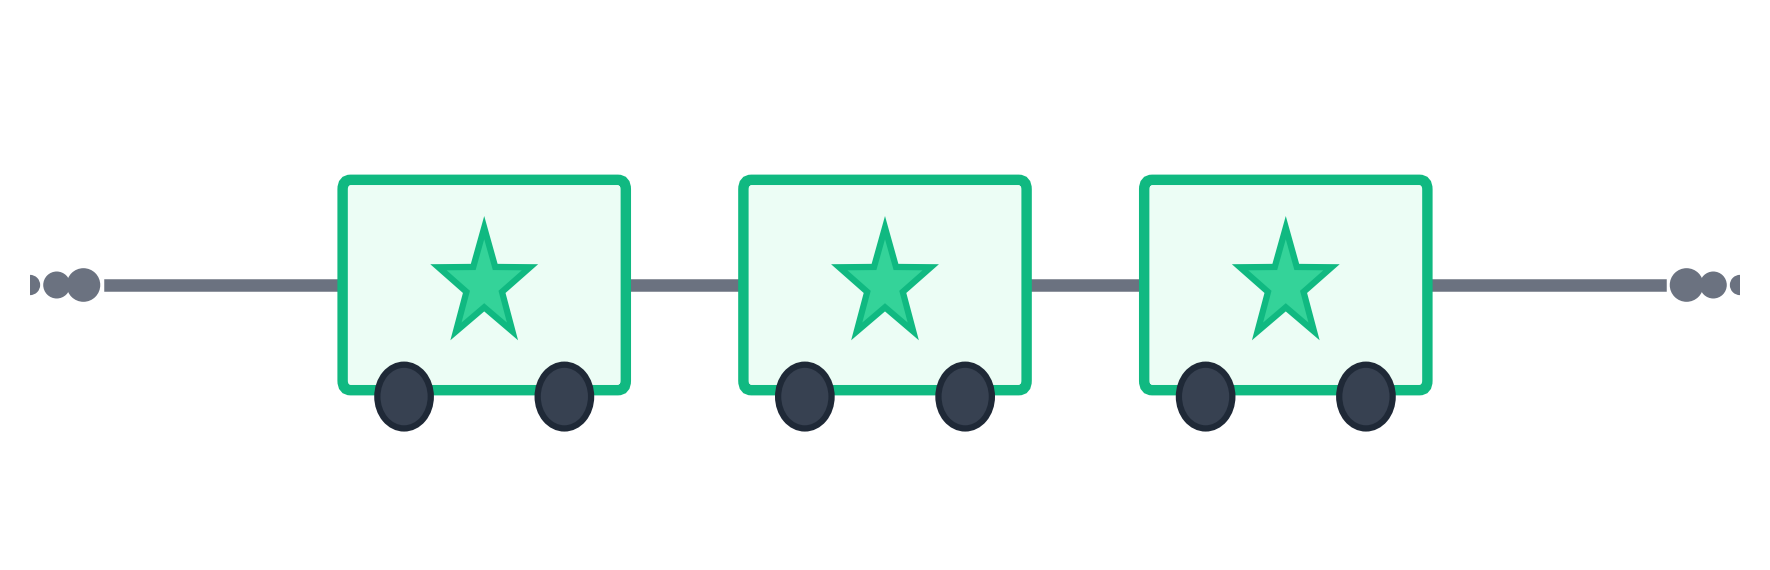
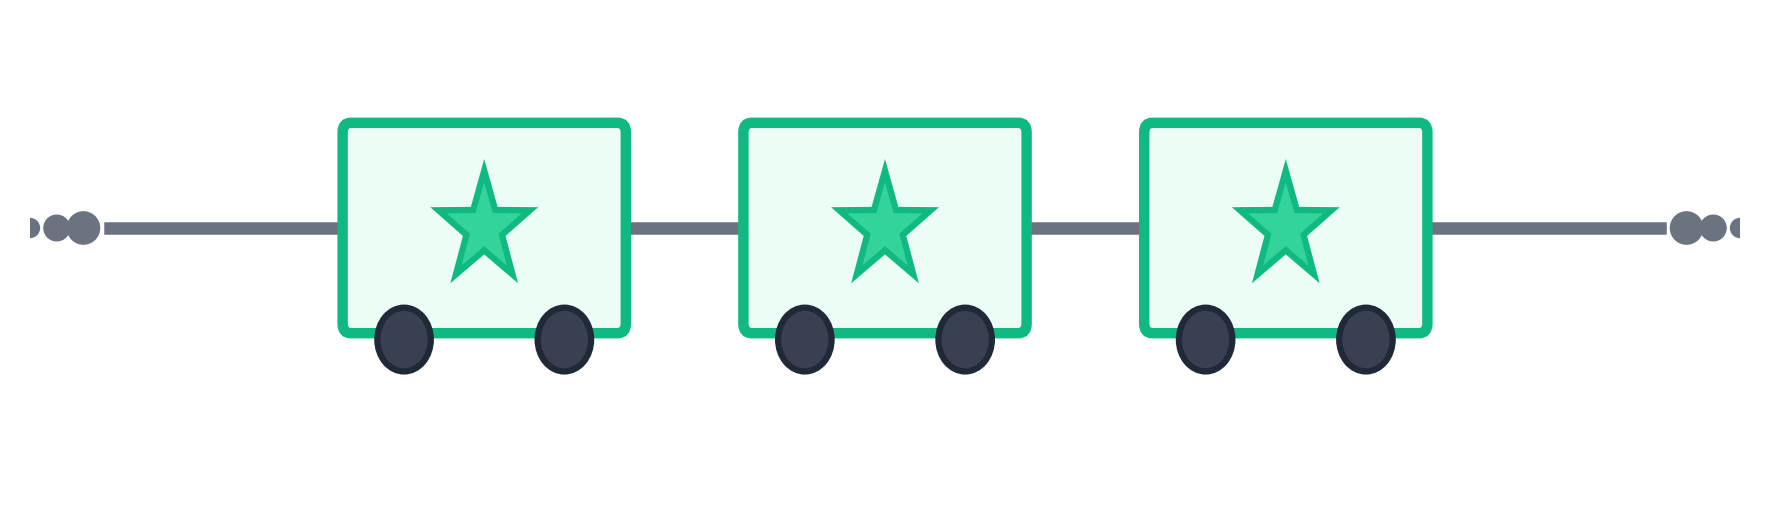
Crop top 10 percent of train illustration and shift it up in the slide

diff --git a/15-omega-regular-languages.md b/15-omega-regular-languages.md
@@ -385,7 +385,7 @@ info: |
 </div>
 </div>
 
-<img src="/crit_decomposition_comic.png" class="absolute bottom-6 left-8 w-60 object-contain pointer-events-none" />
+<img src="/crit_decomposition_comic.png" class="absolute bottom-16 left-8 w-60 object-contain pointer-events-none" />
 
 ---
 
